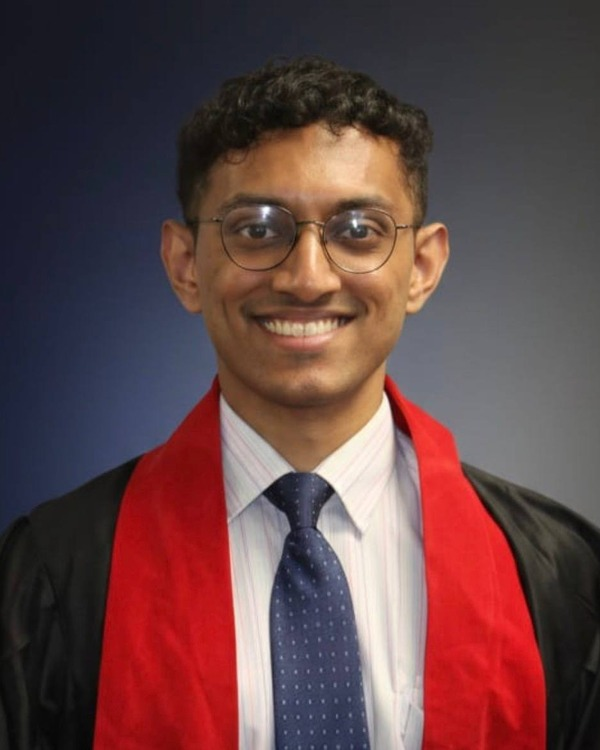
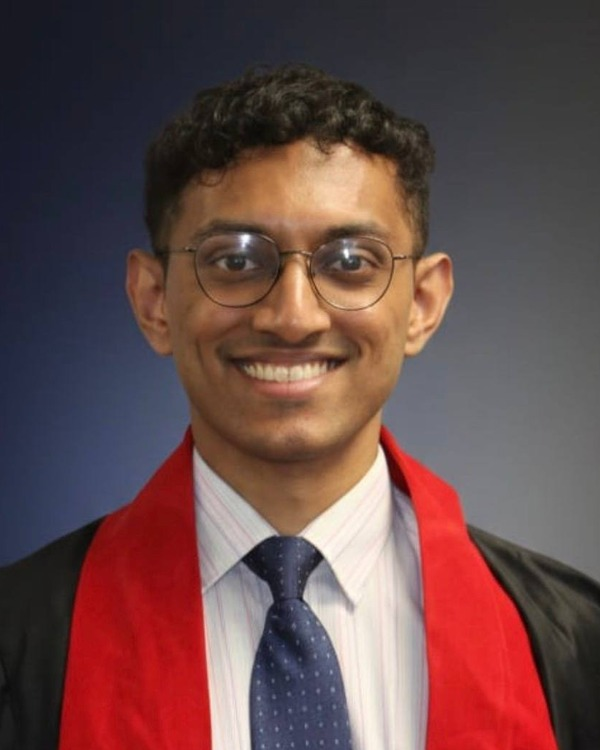
paper: add Singh & Das authors, refresh author bios and photos
- Add Ashay Kumar Singh and Arghadeep Das to \author{} byline,
  affiliation footnotes, and ORCID/email lists in both paper-access
  and paper-build; add their biography entries.
- Remove duplicated leading name from each bio body (IEEEbiography
  already prints the name in bold as the sentence lead-in).
- Reorder bios so Shwetambari precedes Singh and Das.
- Re-crop dcosta/talupuri/chiwhane photos face-aligned to remove
  headroom; add singh and das photos. All 600x750 (0.800 AR).

diff --git a/paper/ieee-paper/paper-access.tex b/paper/ieee-paper/paper-access.tex
@@ -48,9 +48,11 @@
 %   \uppercase{Bosco Chanam}\authorrefmark{1}~\orcidlink{0000-0000-0000-0000}
 \author{\uppercase{Bosco Chanam}\authorrefmark{1}~\orcidlink{0009-0009-2527-0967},
 \uppercase{Chris Dcosta}\authorrefmark{1}~\orcidlink{0009-0007-7295-0573},
-\uppercase{Pranavesh Kumar Talupuri}\authorrefmark{2}~\orcidlink{0009-0005-8974-2012}, and
-\uppercase{Shwetambari Chiwhane}\authorrefmark{1}~\orcidlink{0000-0002-3534-9654}}
-\address[1]{Symbiosis Institute of Technology, Pune 412115, India (e-mail: boscochanam@gmail.com; chrisdcosta777@gmail.com; shwetambari.chiwhane@sitpune.edu.in)}
+\uppercase{Pranavesh Kumar Talupuri}\authorrefmark{2}~\orcidlink{0009-0005-8974-2012},
+\uppercase{Shwetambari Chiwhane}\authorrefmark{1}~\orcidlink{0000-0002-3534-9654},
+\uppercase{Ashay Kumar Singh}\authorrefmark{1}~\orcidlink{0009-0004-9105-7383},
+and \uppercase{Arghadeep Das}\authorrefmark{1}~\orcidlink{0009-0000-9207-7694}}
+\address[1]{Symbiosis Institute of Technology, Pune 412115, India (e-mail: boscochanam@gmail.com; chrisdcosta777@gmail.com; shwetambari.chiwhane@sitpune.edu.in; ashay.sit@gmail.com; arghadeep.das.work@gmail.com)}
 \address[2]{Department of Computer Science, University of Southern California, Los Angeles, CA 90089 USA (e-mail: talupuri@usc.edu)}
 \tfootnote{This work received no external funding.}
 
@@ -384,19 +386,19 @@ on the CGHD-1152 dataset~\cite{bayer2021cghd}.
 \makeatother
 \raggedbottom
 \begin{IEEEbiography}[{\includegraphics[width=1in,height=1.25in,clip,keepaspectratio]{figures/authors/chanam.jpg}}]{Bosco Chanam}
-Bosco Chanam received the B.Tech.\ degree in Computer Science and Engineering from the Symbiosis Institute of Technology (SIT), Pune, India. He is currently an AI/ML Engineer at the AI Incubation Centre at Bharat Forge (Kalyani Group), Pune, India. His professional and research interests include computer vision, edge AI optimization, and robotics. Mr.~Chanam has co-authored research in natural language processing benchmarking, published in the \textit{International Journal of Fuzzy Logic and Intelligent Systems}.
+received the B.Tech.\ degree in Computer Science and Engineering from the Symbiosis Institute of Technology (SIT), Pune, India. He is currently an AI/ML Engineer at the AI Incubation Centre at Bharat Forge (Kalyani Group), Pune, India. His professional and research interests include computer vision, edge AI optimization, and robotics. Mr.~Chanam has co-authored research in natural language processing benchmarking, published in the \textit{International Journal of Fuzzy Logic and Intelligent Systems}.
 \end{IEEEbiography}
 
 \begin{IEEEbiography}[{\includegraphics[width=1in,height=1.25in,clip,keepaspectratio]{figures/authors/dcosta.jpg}}]{Chris Dcosta}
-Chris Dcosta received the B.Tech.\ degree in Computer Science and Engineering with Honors in Artificial Intelligence and Machine Learning from the Symbiosis Institute of Technology (SIT), Pune, India. His research interests include computer vision, machine learning, natural language processing, and deep learning.
+received the B.Tech.\ degree in Computer Science and Engineering with Honors in Artificial Intelligence and Machine Learning from the Symbiosis Institute of Technology (SIT), Pune, India. His research interests include computer vision, machine learning, natural language processing, and deep learning.
 \end{IEEEbiography}
 
 \begin{IEEEbiography}[{\includegraphics[width=1in,height=1.25in,clip,keepaspectratio]{figures/authors/talupuri.jpg}}]{Pranavesh Kumar Talupuri}
-Pranavesh Talupuri is with the Department of Computer Science, University of Southern California, Los Angeles, CA, USA. His research interests include machine learning, deep learning, and computer vision.
+is with the Department of Computer Science, University of Southern California, Los Angeles, CA, USA. His research interests include machine learning, deep learning, and computer vision.
 \end{IEEEbiography}
 
 \begin{IEEEbiography}[{\includegraphics[width=1in,height=1.25in,clip,keepaspectratio]{figures/authors/chiwhane.jpg}}]{Shwetambari Chiwhane}
-Dr. Shwetambari Chiwhane holds a B.E. in Computer Science and Engineering from Sant Gadge
+holds a B.E. in Computer Science and Engineering from Sant Gadge
 Baba Amravati University, Amravati, India, and an M.Tech. in Computer Science and Engineering
 from Dr. Babasaheb Technological University, Lonere, India. She earned her PhD in Computer
 Engineering specializing from Bharath Institute of Higher Education and Research, Chennai,
@@ -415,6 +417,14 @@ Recognized as a PhD guide in Symbiosis International (Deemed University), Presen
 guiding 4 research scholar and she has guided more than 100 undergraduate students for their
 research endeavors. Her current research interests revolve around Image Processing, Computer
 Vision, Artificial Intelligence and Machine Learning.
+\end{IEEEbiography}
+
+\begin{IEEEbiography}[{\includegraphics[width=1in,height=1.25in,clip,keepaspectratio]{figures/authors/singh.jpg}}]{Ashay Kumar Singh}
+received the B.Tech.\ degree in Computer Science and Engineering from the Symbiosis Institute of Technology (SIT), Pune, India. His research interests lie in machine learning, computer vision, Retrieval-Augmented Generation (RAG), optical character recognition (OCR), and multimodal AI.
+\end{IEEEbiography}
+
+\begin{IEEEbiography}[{\includegraphics[width=1in,height=1.25in,clip,keepaspectratio]{figures/authors/das.jpg}}]{Arghadeep Das}
+received the B.Tech.\ degree in Computer Science and Engineering from the Symbiosis Institute of Technology (SIT), Pune, India. His research interests include reinforcement learning, world models, computer vision, 3D rendering, agentic AI, embodied AI, robotics, and machine learning.
 \end{IEEEbiography}
 
 \EOD

diff --git a/paper/ieee-paper/paper-build.tex b/paper/ieee-paper/paper-build.tex
@@ -29,8 +29,8 @@
 
 % ORCID: add each author's ORCID before submission, e.g.
 %   \uppercase{Bosco Chanam}\authorrefmark{1}~\orcidlink{0000-0000-0000-0000}
-\author{Bosco Chanam, Chris Dcosta, Pranavesh Kumar Talupuri, and Shwetambari A. Chiwhane%
-\thanks{B. Chanam, C. Dcosta, and S. Chiwhane are with the Symbiosis Institute of Technology, Pune 412115, India.}%
+\author{Bosco Chanam, Chris Dcosta, Pranavesh Kumar Talupuri, Shwetambari A. Chiwhane, Ashay Kumar Singh, and Arghadeep Das%
+\thanks{B. Chanam, C. Dcosta, S. Chiwhane, A. K. Singh, and A. Das are with the Symbiosis Institute of Technology, Pune 412115, India.}%
 \thanks{P. Talupuri is with the Department of Computer Science, University of Southern California, Los Angeles, CA 90089 USA.}%
 \thanks{Corresponding author: Bosco Chanam (e-mail: boscochanam@gmail.com).}%
 \thanks{This work received no external funding.}}
@@ -357,19 +357,27 @@ on the CGHD-1152 dataset~\cite{bayer2021cghd}.
 \makeatother
 \raggedbottom
 \begin{IEEEbiography}[{\includegraphics[width=1in,height=1.25in,clip,keepaspectratio]{figures/authors/chanam.jpg}}]{Bosco Chanam}
-Bosco Chanam received the B.Tech.\ degree in Computer Science and Engineering from the Symbiosis Institute of Technology (SIT), Pune, India. He is currently an AI/ML Engineer at the AI Incubation Centre at Bharat Forge (Kalyani Group), Pune, India. His professional and research interests include computer vision, edge AI optimization, and robotics. Mr.~Chanam has co-authored research in natural language processing benchmarking, published in the \textit{International Journal of Fuzzy Logic and Intelligent Systems}.
+received the B.Tech.\ degree in Computer Science and Engineering from the Symbiosis Institute of Technology (SIT), Pune, India. He is currently an AI/ML Engineer at the AI Incubation Centre at Bharat Forge (Kalyani Group), Pune, India. His professional and research interests include computer vision, edge AI optimization, and robotics. Mr.~Chanam has co-authored research in natural language processing benchmarking, published in the \textit{International Journal of Fuzzy Logic and Intelligent Systems}.
 \end{IEEEbiography}
 
 \begin{IEEEbiography}[{\includegraphics[width=1in,height=1.25in,clip,keepaspectratio]{figures/authors/dcosta.jpg}}]{Chris Dcosta}
-Chris Dcosta is with the Symbiosis Institute of Technology, Pune, India. His research interests include circuit digitization, image processing, and deep learning.
+is with the Symbiosis Institute of Technology, Pune, India. His research interests include circuit digitization, image processing, and deep learning.
 \end{IEEEbiography}
 
 \begin{IEEEbiography}[{\includegraphics[width=1in,height=1.25in,clip,keepaspectratio]{figures/authors/talupuri.jpg}}]{Pranavesh Kumar Talupuri}
-Pranavesh Talupuri is with the Department of Computer Science, University of Southern California, Los Angeles, CA, USA. His research interests include machine learning, deep learning, and computer vision.
+is with the Department of Computer Science, University of Southern California, Los Angeles, CA, USA. His research interests include machine learning, deep learning, and computer vision.
 \end{IEEEbiography}
 
 \begin{IEEEbiography}[{\includegraphics[width=1in,height=1.25in,clip,keepaspectratio]{figures/authors/chiwhane.jpg}}]{Shwetambari A. Chiwhane}
-Shwetambari A. Chiwhane is with the Symbiosis Institute of Technology, Pune, India. Her research interests include machine learning, natural language processing, and data science.
+is with the Symbiosis Institute of Technology, Pune, India. Her research interests include machine learning, natural language processing, and data science.
+\end{IEEEbiography}
+
+\begin{IEEEbiography}[{\includegraphics[width=1in,height=1.25in,clip,keepaspectratio]{figures/authors/singh.jpg}}]{Ashay Kumar Singh}
+received the B.Tech.\ degree in Computer Science and Engineering from the Symbiosis Institute of Technology (SIT), Pune, India. His research interests lie in machine learning, computer vision, Retrieval-Augmented Generation (RAG), optical character recognition (OCR), and multimodal AI.
+\end{IEEEbiography}
+
+\begin{IEEEbiography}[{\includegraphics[width=1in,height=1.25in,clip,keepaspectratio]{figures/authors/das.jpg}}]{Arghadeep Das}
+received the B.Tech.\ degree in Computer Science and Engineering from the Symbiosis Institute of Technology (SIT), Pune, India. His research interests include reinforcement learning, world models, computer vision, 3D rendering, agentic AI, embodied AI, robotics, and machine learning.
 \end{IEEEbiography}
 
 
